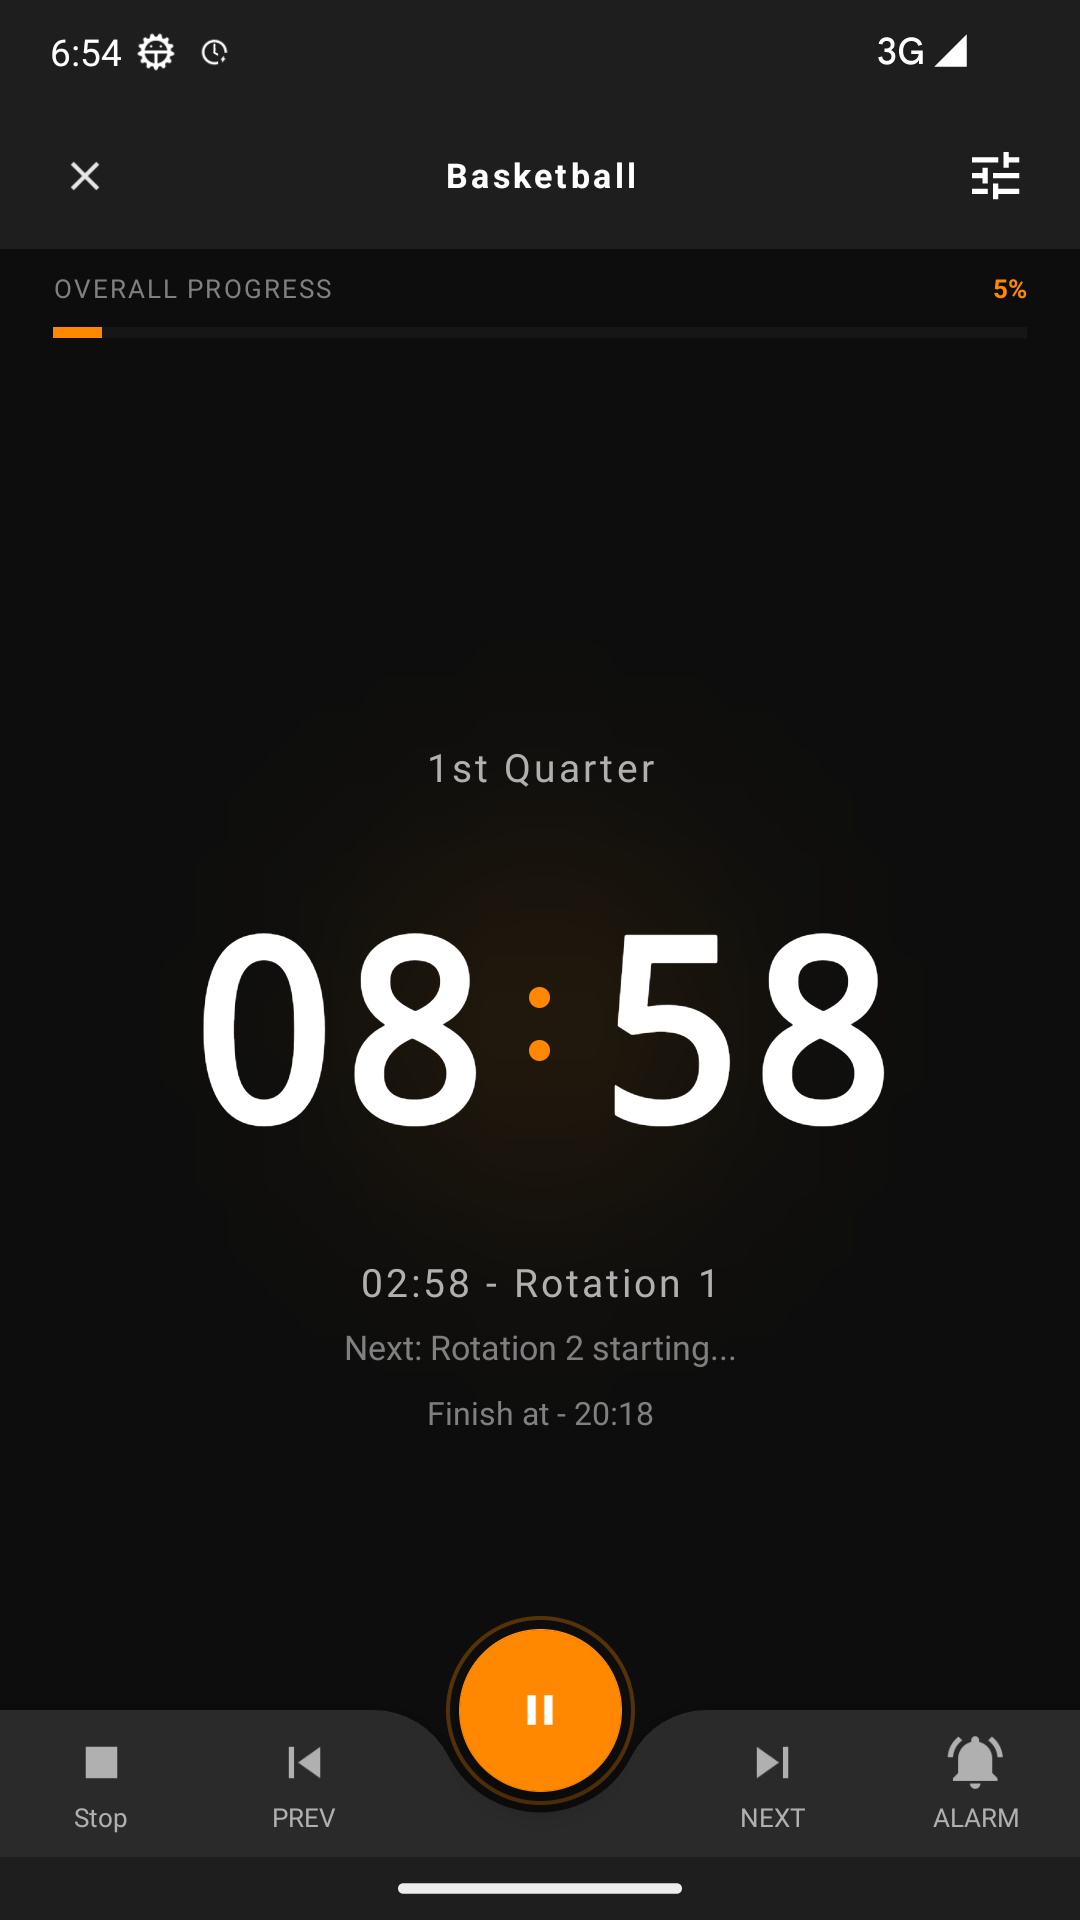
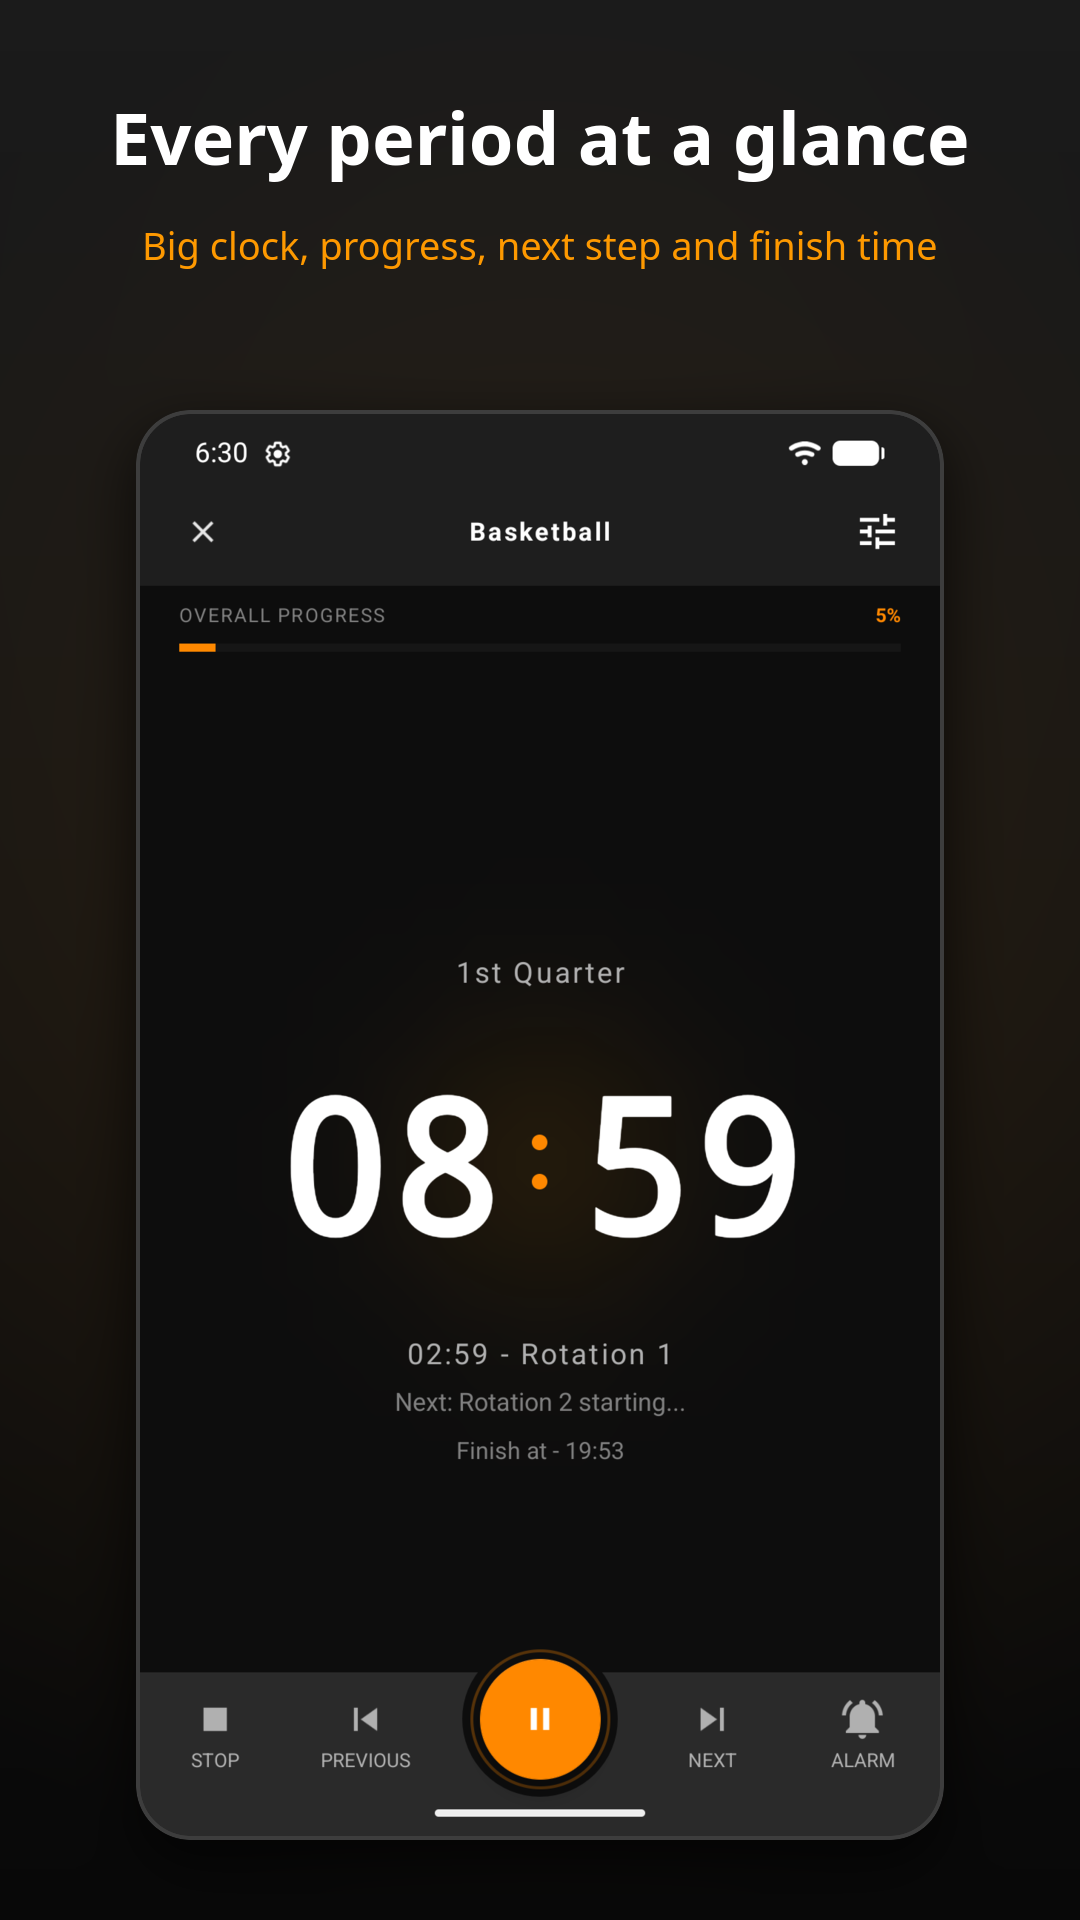
feat: update screenshots

diff --git a/index.html b/index.html
@@ -270,8 +270,8 @@
     .screenshots-gallery {
       display: grid;
       grid-template-columns: repeat(3, 1fr);
-      gap: 16px;
-      max-width: 700px;
+      gap: 20px;
+      max-width: 960px;
     }
     .screenshots-gallery img {
       width: 100%;
@@ -285,8 +285,8 @@
       border-color: var(--border);
       box-shadow: 0 8px 32px rgba(0, 0, 0, 0.12);
     }
-    @media (max-width: 600px) {
-      .screenshots-gallery { max-width: 100%; }
+    @media (max-width: 720px) {
+      .screenshots-gallery { max-width: 100%; grid-template-columns: repeat(2, 1fr); gap: 12px; }
     }
 
     /* ── Lightbox ── */
@@ -302,7 +302,7 @@
     }
     .lightbox.open { display: flex; }
     .lightbox img {
-      max-width: min(360px, 92vw);
+      max-width: min(420px, 92vw);
       max-height: 92vh;
       width: auto;
       height: auto;
@@ -502,9 +502,12 @@
       <h2 class="section-title">See it in action</h2>
       <p class="section-subtitle">RoundTimerX on Android — dark, focused, built for any sport or workout.</p>
       <div class="screenshots-gallery">
-        <img src="screenshots/play_store/01_mid_game.png" alt="Timer running during 1st Quarter" data-lightbox>
-        <img src="screenshots/play_store/02_preset_designer.png" alt="Preset Designer with period hierarchy" data-lightbox>
-        <img src="screenshots/play_store/03_routines.png" alt="Select Routine sheet" data-lightbox>
+        <img src="screenshots/play_store/01_mid_game.png" alt="Basketball timer running during the 1st quarter, with progress, next step and finish time" data-lightbox>
+        <img src="screenshots/play_store/02_any_activity.png" alt="Tabata work interval counting down" data-lightbox>
+        <img src="screenshots/play_store/03_preset_designer.png" alt="Preset Designer showing a basketball game with nested periods" data-lightbox>
+        <img src="screenshots/play_store/04_routines.png" alt="Select Routine sheet with Basketball, Futsal and Tabata presets" data-lightbox>
+        <img src="screenshots/play_store/05_scheduled_start.png" alt="Schedule start dialog with 5, 10 and 15 minute options and an exact start time" data-lightbox>
+        <img src="screenshots/play_store/06_background_notification.png" alt="Timer notification with Pause, Next and Exit controls" data-lightbox>
       </div>
     </div>
   </section>
